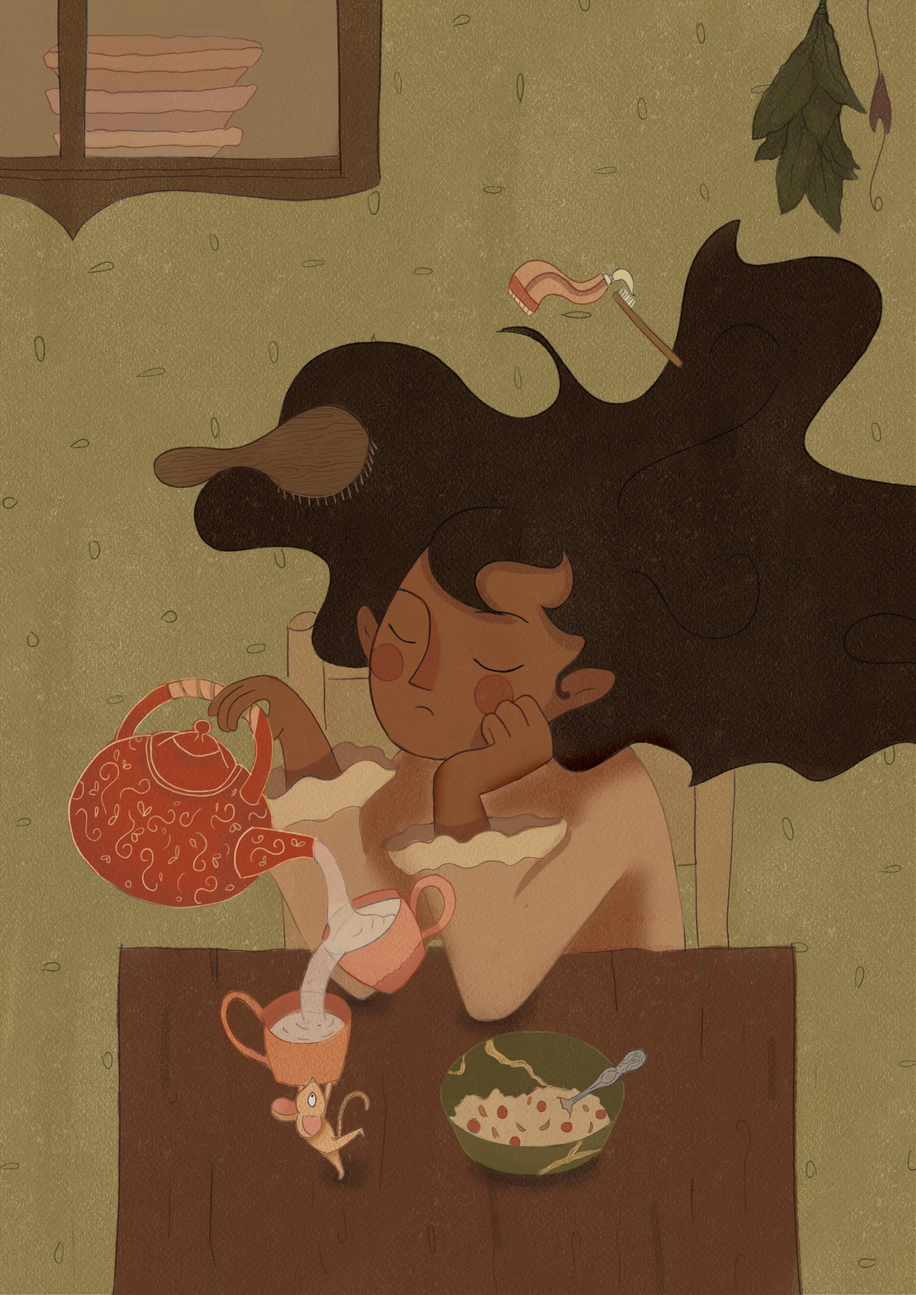
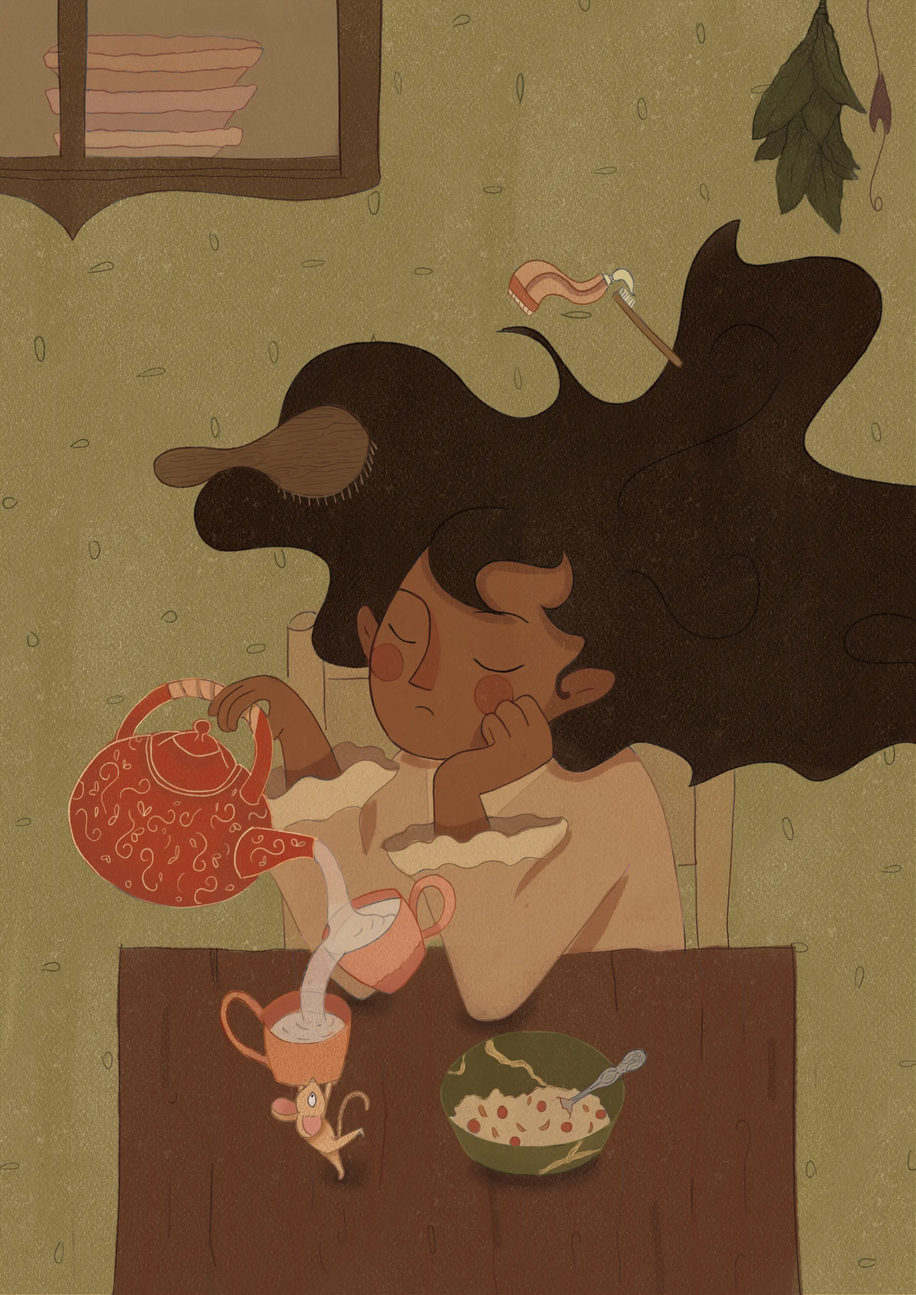
lu

Changed region(s): [[0.5276, 0.5593, 0.7138, 0.6525], [0.4035, 0.5904, 0.4966, 0.7457], [0.6207, 0.6525, 0.7138, 0.7457]]

diff --git a/index.html b/index.html
@@ -71,7 +71,9 @@
         <img class="illustration" src="Illustrations/Inn for lost witches.webp" style="aspect-ratio: 2481/3508;">
       </div>
 
-
+      <div class="project">
+        <img class="illustration" src="Illustrations/lu is a ghost_1.webp" style="aspect-ratio: 5/3;">
+      </div>
 
       <div class="project">
         <img class="illustration" src="Illustrations/All the Wandering Light II.webp" style="aspect-ratio: 225/300;">
@@ -95,6 +97,9 @@
         <img class="illustration" src="Illustrations/sadness.webp" style="aspect-ratio: 45x30;">
       </div>
 
+      <div class="project">
+        <img class="illustration" src="Illustrations/lu is a ghost_2.webp" style="aspect-ratio: 5/3;">
+      </div>
 
       <div class="project">
         <img class="illustration" src="Illustrations/Book Mockup-perrupels-nedant.webp" style="aspect-ratio: 4x5;">
@@ -127,6 +132,9 @@
         <img class="illustration" src="Illustrations/Book Mockup-perrupels-ballant.webp" style="aspect-ratio: 4x5;">
       </div>
 
+      <div class="project">
+        <img class="illustration" src="Illustrations/lu is a ghost_3.webp" style="aspect-ratio: 5/3;">
+      </div>
 
       <div class="project">
         <img class="illustration" src="Illustrations/self portarit.webp" style="aspect-ratio: 4x5;">
